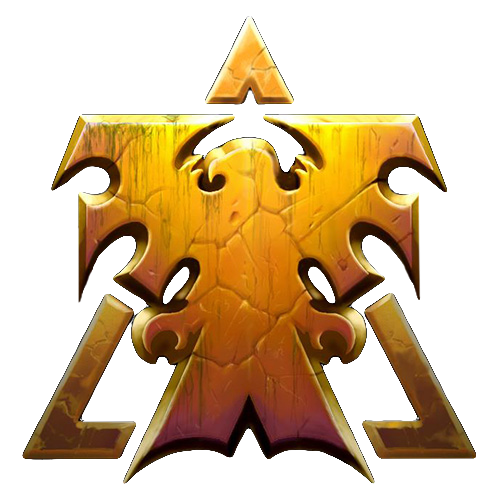
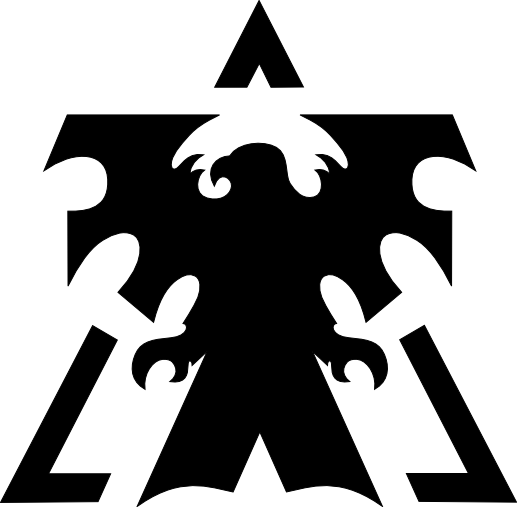
.

diff --git a/index.html b/index.html
@@ -28,11 +28,11 @@
             <div class = "container left">
                 <div class = "postRow">
                     <div class = "raceIcon postColumnLight">
-                        <img src = "terran.png" width = "50" height = "50"></i>
+                        <img src = "terranWhite.png" width = "50" height = "50"></i>
                     </div>
                     <div class = "postDesc postColumnLight">
                         <a href = "post.html">Post Title</a>
-                        <p>Short post description</p>
+                        <p class = "postDesc">Short post description</p>
                     </div>
                     <div class = "postLikes postColumnLight">
                         <span style = "color:rgb(64, 175, 64)">34 Likes</span> | <span style = "color:red">14 Dislikes</span>
@@ -65,7 +65,7 @@
                         <span style = "color:rgb(64, 175, 64)">34 Likes</span> | <span style = "color:red">14 Dislikes</span>
                     </div>
                     <div class = "raceIcon postColumnLight">
-                        <img src = "terran.png" width = "50" height = "50"></i>
+                        <img src = "terranWhite.png" width = "50" height = "50"></i>
                     </div>
                     <div class = "postDesc postColumnLight">
                         <a href = "">Post Title</a>
